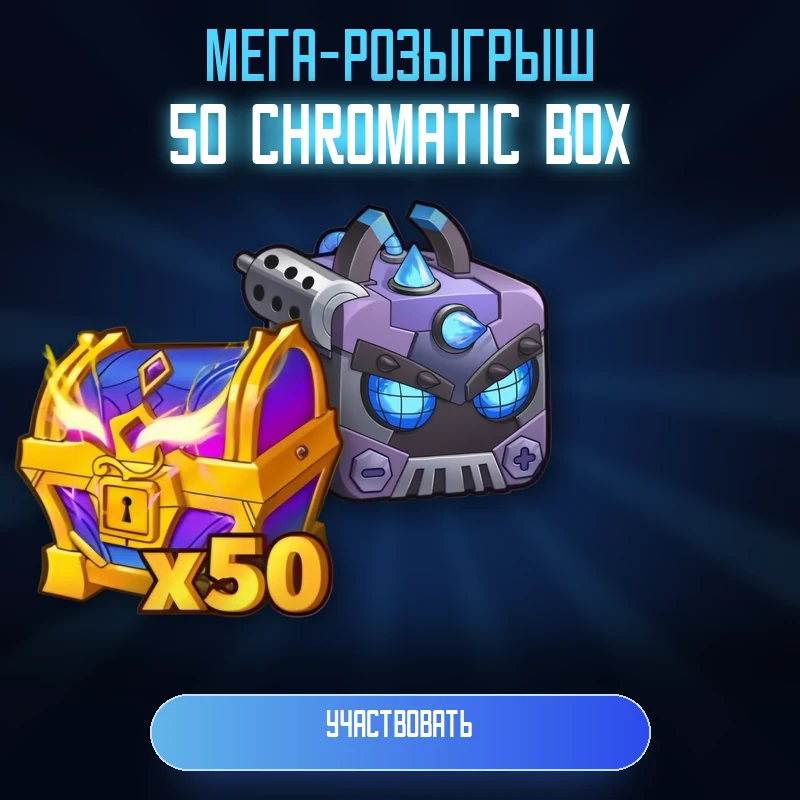
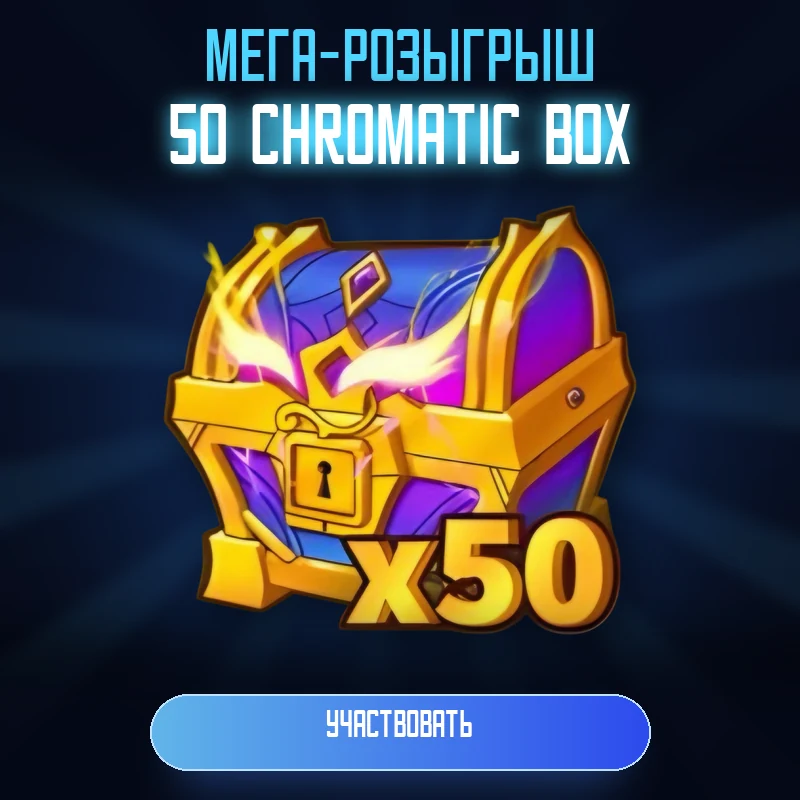
feat(promo): в макете розыгрыша остался один сундук, робот убран
Робот Update 30 стоял в кадре рядом с призом с тех пор, как призом был
магнит: тогда он работал поводом («розыгрыш в честь обновления»). Рядом с
сундуком он читается как второй приз, а приз здесь один — поэтому из
макета он убран.

Место робота отдано сундуку, и каждый слот пересобран под один предмет:

* strip и dock — предмет стоит по центру правой половины, а не жмётся к
  краю, как жался рядом с роботом. Высота выросла с 0.82h до 0.88h.
* rail — сундук по ширине борта (320) и ровно посередине полосы между
  заголовком и кнопкой. Шире он не влезет, а резать его по краям нельзя:
  значок «x50» нарисован у правого нижнего угла арта. Освободившуюся
  высоту добрали заголовок и кнопка, иначе борт выглядел пустым.
* popup — сундук по центру, 430 px против прежних 300.

giveaway-robot.webp остаётся в tools/art: это исходник, а не мусор.
Макеты стали легче (19-48 KB против 23-52 KB), потолки CREATIVE_SPECS и
так не были задеты.

Проверка: tests/run_all.sh — 25 файлов PHP (1538 assertions) и 8 node
(216 тестов), всё зелёное.

diff --git a/tools/make-giveaway-creatives.py b/tools/make-giveaway-creatives.py
@@ -9,17 +9,17 @@
 Размеры берутся из CREATIVE_SPECS в api/lib/images.php: файл, который не влез
 в потолок слота, сервер либо ужмёт (still), либо отвергнет (анимация).
 
-Исходники — tools/art/giveaway-chromatic.webp и giveaway-robot.webp: сундук
-Chromatic и робот Update 30, обрезанные по альфе. Значок «x50» нарисован
-внутри самого арта сундука, поэтому числом приза макет не занимается.
+Исходник один — tools/art/giveaway-chromatic.webp: сундук Chromatic, обрезанный
+по альфе. Значок «x50» нарисован внутри самого арта, поэтому числом приза макет
+не занимается.
 
-Приз один, и в макете осталось ровно две вещи: что разыгрывают и куда нажать.
-Освободившееся от счётчика место отдано арту — приз должен быть самым крупным
-пятном во всех четырёх местах.
+В кадре ровно три вещи: что разыгрывают, приз и куда нажать. Робот Update 30
+(giveaway-robot.webp) из макета убран — рядом с сундуком он читался как второй
+приз, а приз здесь один.
 
-Вариант со счётчиком «до итогов осталось N участников», вариант с двумя
-призами (Magnet + Chromatic Box) и три ранних макета («дуэт», «билет», «босс»)
-лежат в истории git до этого коммита.
+Вариант с роботом, вариант со счётчиком «до итогов осталось N участников»,
+вариант с двумя призами (Magnet + Chromatic Box) и три ранних макета («дуэт»,
+«билет», «босс») лежат в истории git до этого коммита.
 
 Нужен Pillow.
 """
@@ -196,13 +196,12 @@ def bg(w, h):
 def creative(slot, w, h):
     img = bg(w, h)
     chest = art("giveaway-chromatic.webp")
-    robot = art("giveaway-robot.webp")
 
     if slot in ("strip", "dock"):
-        r = scaled(robot, h=int(h * 0.96))
-        drop(img, r, int(w * 0.50), int(h * 0.02))
-        c = scaled(chest, h=int(h * 0.82))
-        drop(img, c, w - c.width - int(w * 0.03), int(h * 0.11))
+        # Сундук — единственный предмет в кадре, поэтому он стоит по центру
+        # правой половины, а не жмётся к краю, как жался рядом с роботом.
+        c = scaled(chest, h=int(h * 0.88))
+        drop(img, c, int(w * 0.76) - c.width // 2, (h - c.height) // 2)
 
         # Затемнение слева, чтобы текст лёг на арт.
         veil = Image.new("RGBA", (w, h), (0, 0, 0, 0))
@@ -223,34 +222,32 @@ def creative(slot, w, h):
         return img
 
     if slot == "rail":
-        # Предметы каскадом; ниже 1020 начинается вуаль с кнопкой, и наезжать
-        # на неё арту нельзя.
-        r = scaled(robot, w=int(w * 1.12))
-        drop(img, r, (w - r.width) // 2, 352)
-        c = scaled(chest, w=int(w * 0.98))
-        drop(img, c, (w - c.width) // 2, 702)
+        # Борт шириной 320 — сундук в него шире не влезет, а резать его по
+        # краям нельзя: значок «x50» нарисован у правого нижнего угла арта.
+        # Поэтому предмет стоит ровно посередине свободной полосы между
+        # заголовком и кнопкой, а не растягивается на всю её высоту.
+        c = scaled(chest, w=w)
+        drop(img, c, 0, 520)
 
         veil = Image.new("RGBA", (w, h), (0, 0, 0, 0))
-        ImageDraw.Draw(veil).rectangle([0, 0, w, 300], fill=(4, 8, 22, 196))
-        ImageDraw.Draw(veil).rectangle([0, h - 180, w, h], fill=(4, 8, 22, 218))
+        ImageDraw.Draw(veil).rectangle([0, 0, w, 360], fill=(4, 8, 22, 196))
+        ImageDraw.Draw(veil).rectangle([0, h - 230, w, h], fill=(4, 8, 22, 218))
         img.alpha_composite(veil.filter(ImageFilter.GaussianBlur(28)))
 
         d = ImageDraw.Draw(img)
-        d.text((w / 2, 62), "МЕГА", font=fit(d, "МЕГА", w - 60, 68), fill=CYAN + (255,), anchor="mm")
-        text_glow(img, (w / 2, 136), T_HEAD, fit(d, T_HEAD, w - 30, 78), INK, CYAN, 12, anchor="mm")
+        d.text((w / 2, 78), "МЕГА", font=fit(d, "МЕГА", w - 50, 76), fill=CYAN + (255,), anchor="mm")
+        text_glow(img, (w / 2, 168), T_HEAD, fit(d, T_HEAD, w - 24, 92), INK, CYAN, 13, anchor="mm")
         d = ImageDraw.Draw(img)
         for i, line in enumerate(T_PRIZE2):
-            d.text((w / 2, 204 + i * 46), line, font=fit(d, line, w - 40, 48),
+            d.text((w / 2, 256 + i * 54), line, font=fit(d, line, w - 36, 54),
                    fill=INK + (255,), anchor="mm")
 
-        button(img, [22, h - 108, w - 22, h - 34])
+        button(img, [20, h - 150, w - 20, h - 50])
         return img
 
     # popup 800×800
-    r = scaled(robot, h=348)
-    drop(img, r, (w - r.width) // 2, 172)
-    c = scaled(chest, h=300)
-    drop(img, c, 14, 318)
+    c = scaled(chest, h=430)
+    drop(img, c, (w - c.width) // 2, 205)
 
     veil = Image.new("RGBA", (w, h), (0, 0, 0, 0))
     ImageDraw.Draw(veil).rectangle([0, 0, w, 196], fill=(4, 8, 22, 206))
